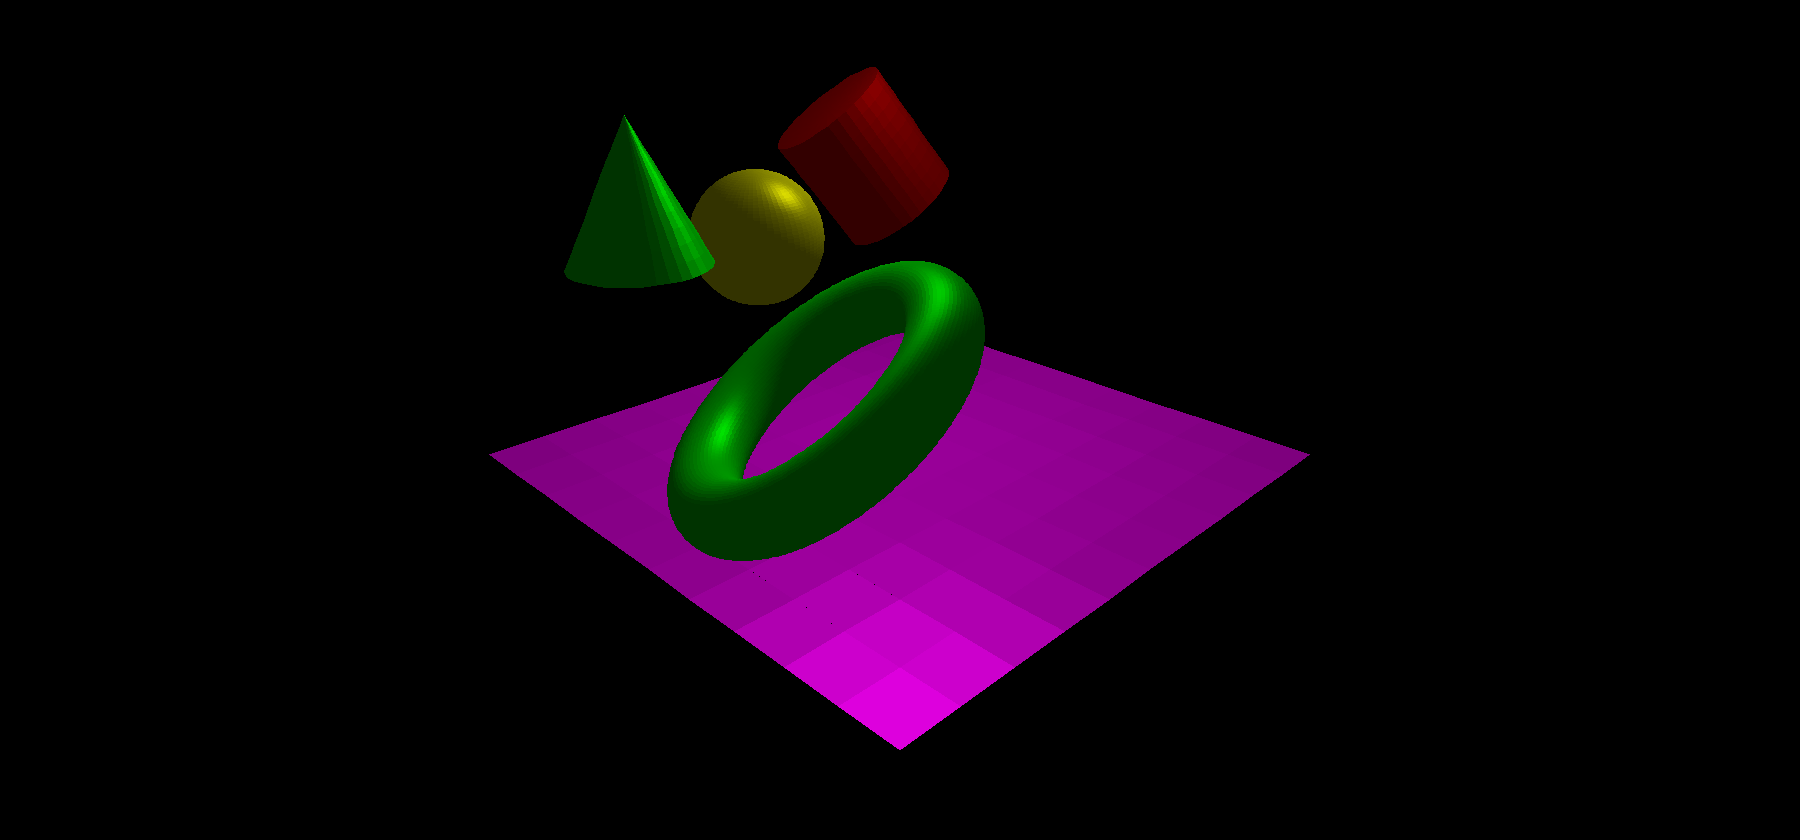
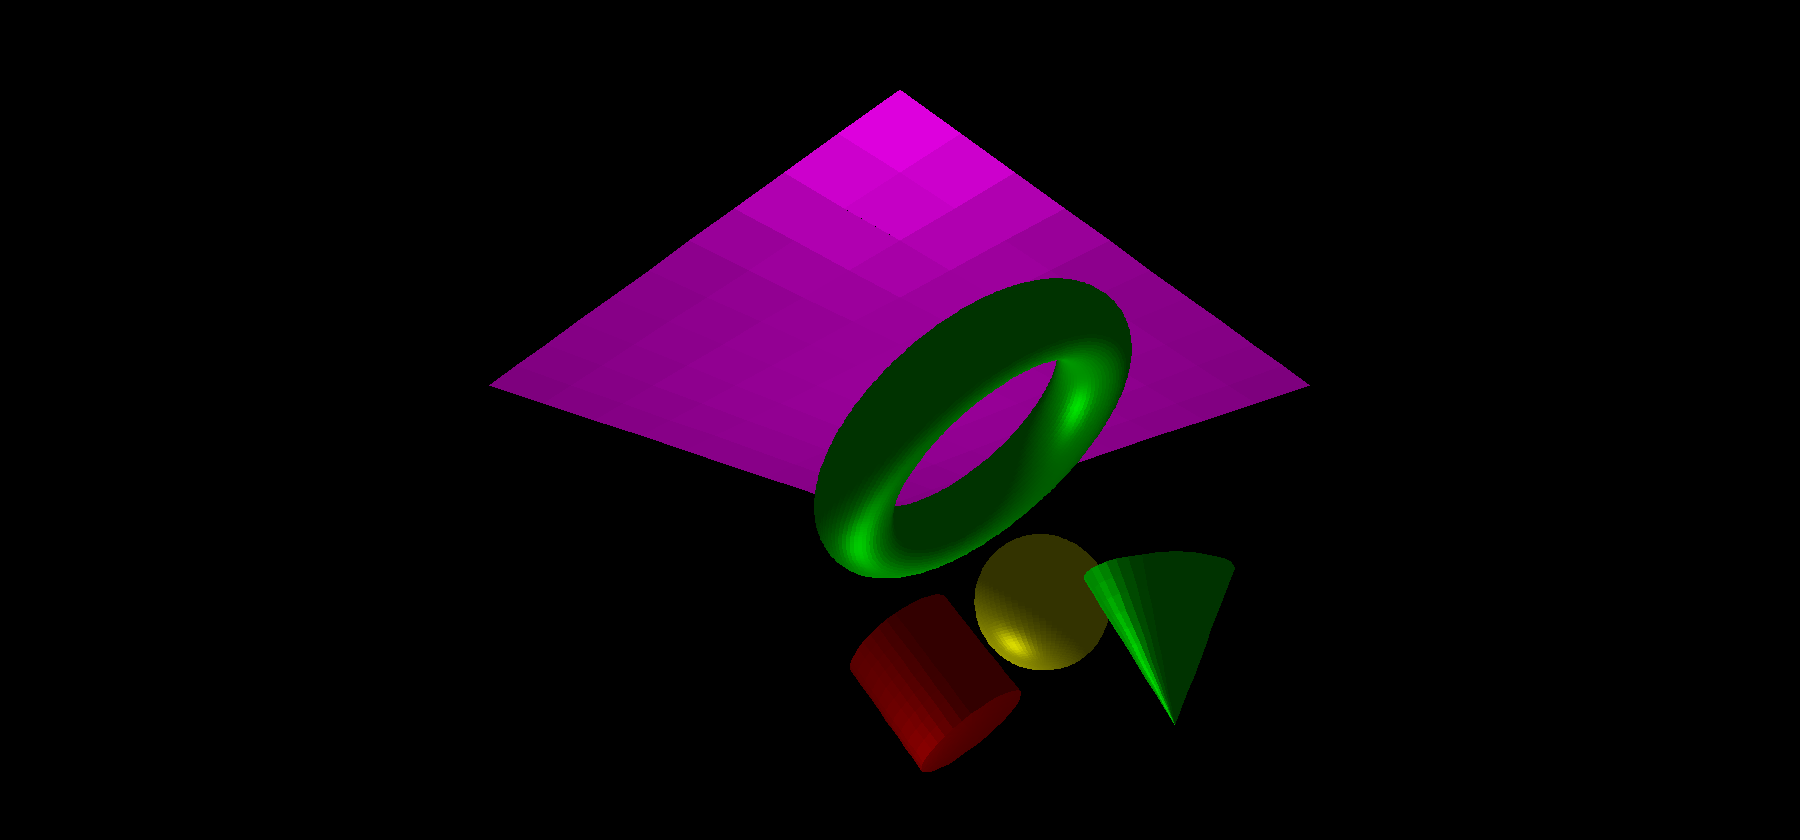
done

Changed region(s): [[0.28, 0.0619, 0.7467, 0.9286]]

diff --git a/tessel.py b/tessel.py
@@ -6,6 +6,7 @@ from typing import Tuple
 from cameraMatrix import cameraMatrix
 from lightSource import lightSource
 from object import object
+from parametricPlane import parametricPlane
 
 class tessel:
 
@@ -40,24 +41,22 @@ class tessel:
 
                     p_a, p_d, p_s, f = object.getReflectance()
                     #If surface is not a back face
-                    if int(N.get(2, 0)) >= 0:
+                    if int((N.transpose() * V).get(0, 0)) >= 0:
                     	#Compute face shading 
                         I_d = max(0, (S.removeRow(3).transpose() * N.removeRow(3)).get(0, 0) / (S.removeRow(3).norm() * N.removeRow(3).norm()))
                         I_s = max(0, (R.removeRow(3).transpose() * V.removeRow(3)).get(0, 0) / (R.removeRow(3).norm() * V.removeRow(3).norm()))
 
                         shading_coeff = (p_a + p_d * I_d + p_s * I_s ** f)
                         shading_color = [int(shading_coeff*c) for c in object.getColor()]
-                    else:
-                        shading_color = [int(p_a*c) for c in object.getColor()]
 
-                    shading_color = tuple(shading_color)
+                        shading_color = tuple(shading_color)
 
-                    #Transform 3D points expressed in viewing coordinates into 2D pixel coordinates
-                    facePointsPixel = [camera.viewingToPixelCoordinates(fp) for fp in facePoints]
+                        #Transform 3D points expressed in viewing coordinates into 2D pixel coordinates
+                        facePointsPixel = [camera.viewingToPixelCoordinates(fp) for fp in facePoints]
 
-                    #Add the surface to the face list. Each list element is composed of the following items:
-                    #[depth of the face centroid point (its Z coordinate), list of face points in pixel coordinates, face shading]
-                    self.__faceList.append((C.get(2, 0), facePointsPixel, shading_color))
+                        #Add the surface to the face list. Each list element is composed of the following items:
+                        #[depth of the face centroid point (its Z coordinate), list of face points in pixel coordinates, face shading]
+                        self.__faceList.append((C.get(2, 0), facePointsPixel, shading_color))
 
                     v += object.getUVDelta()[1]
                 u += object.getUVDelta()[0]
